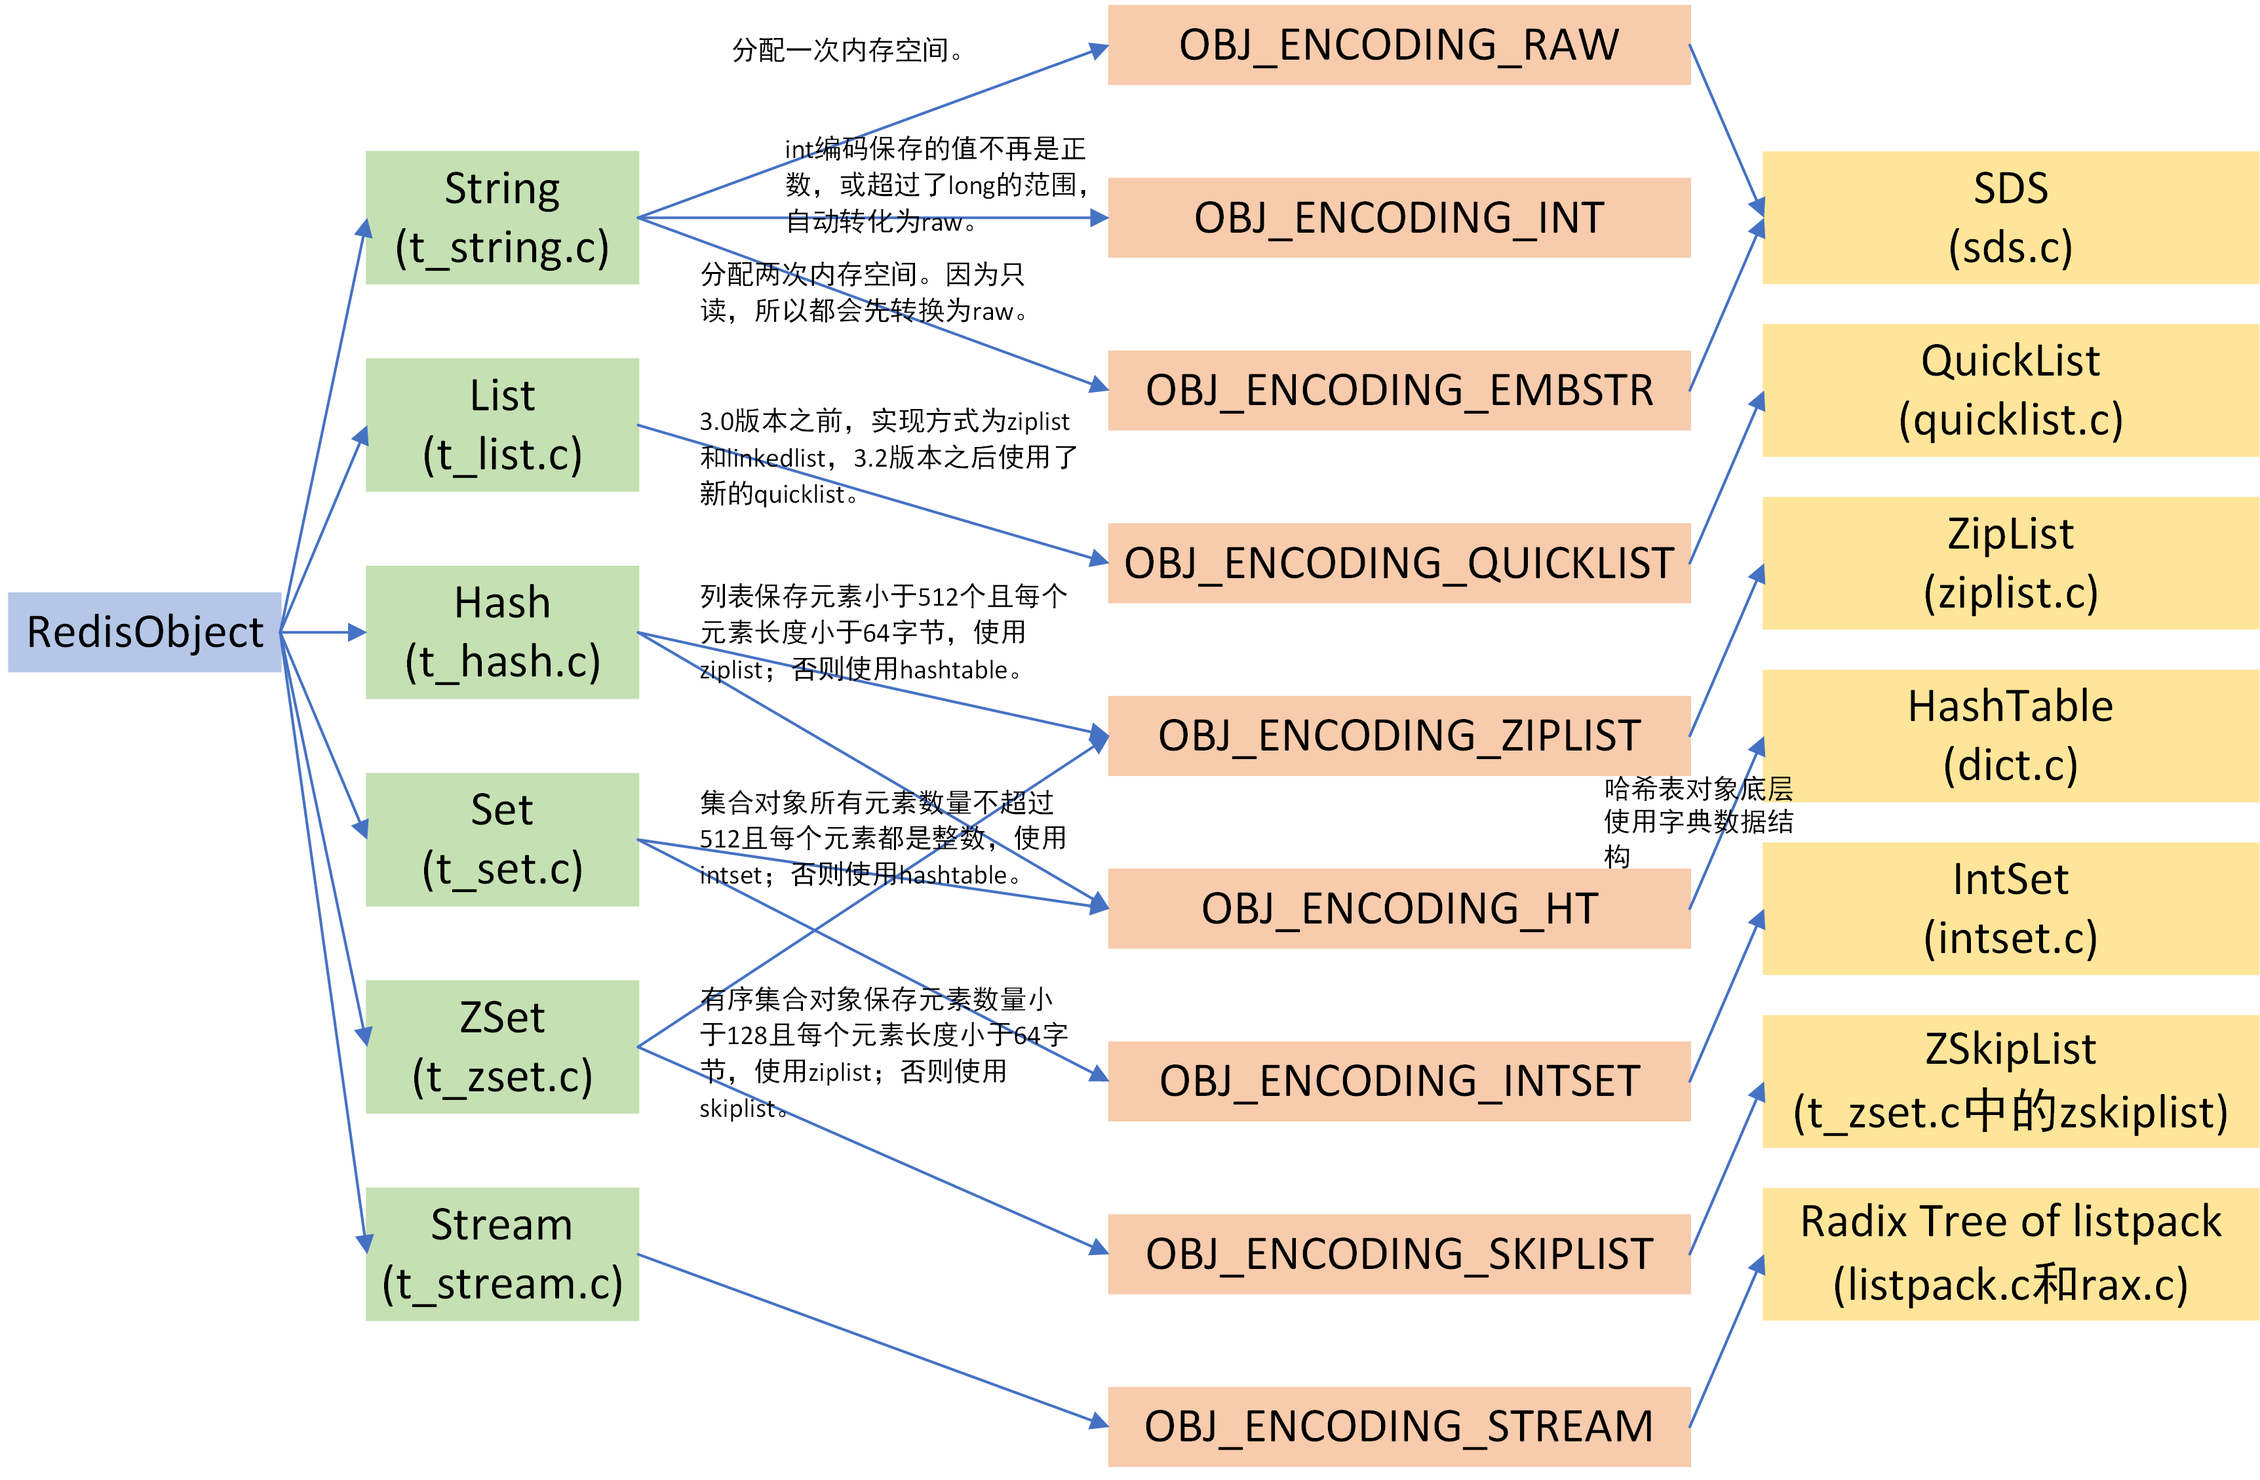
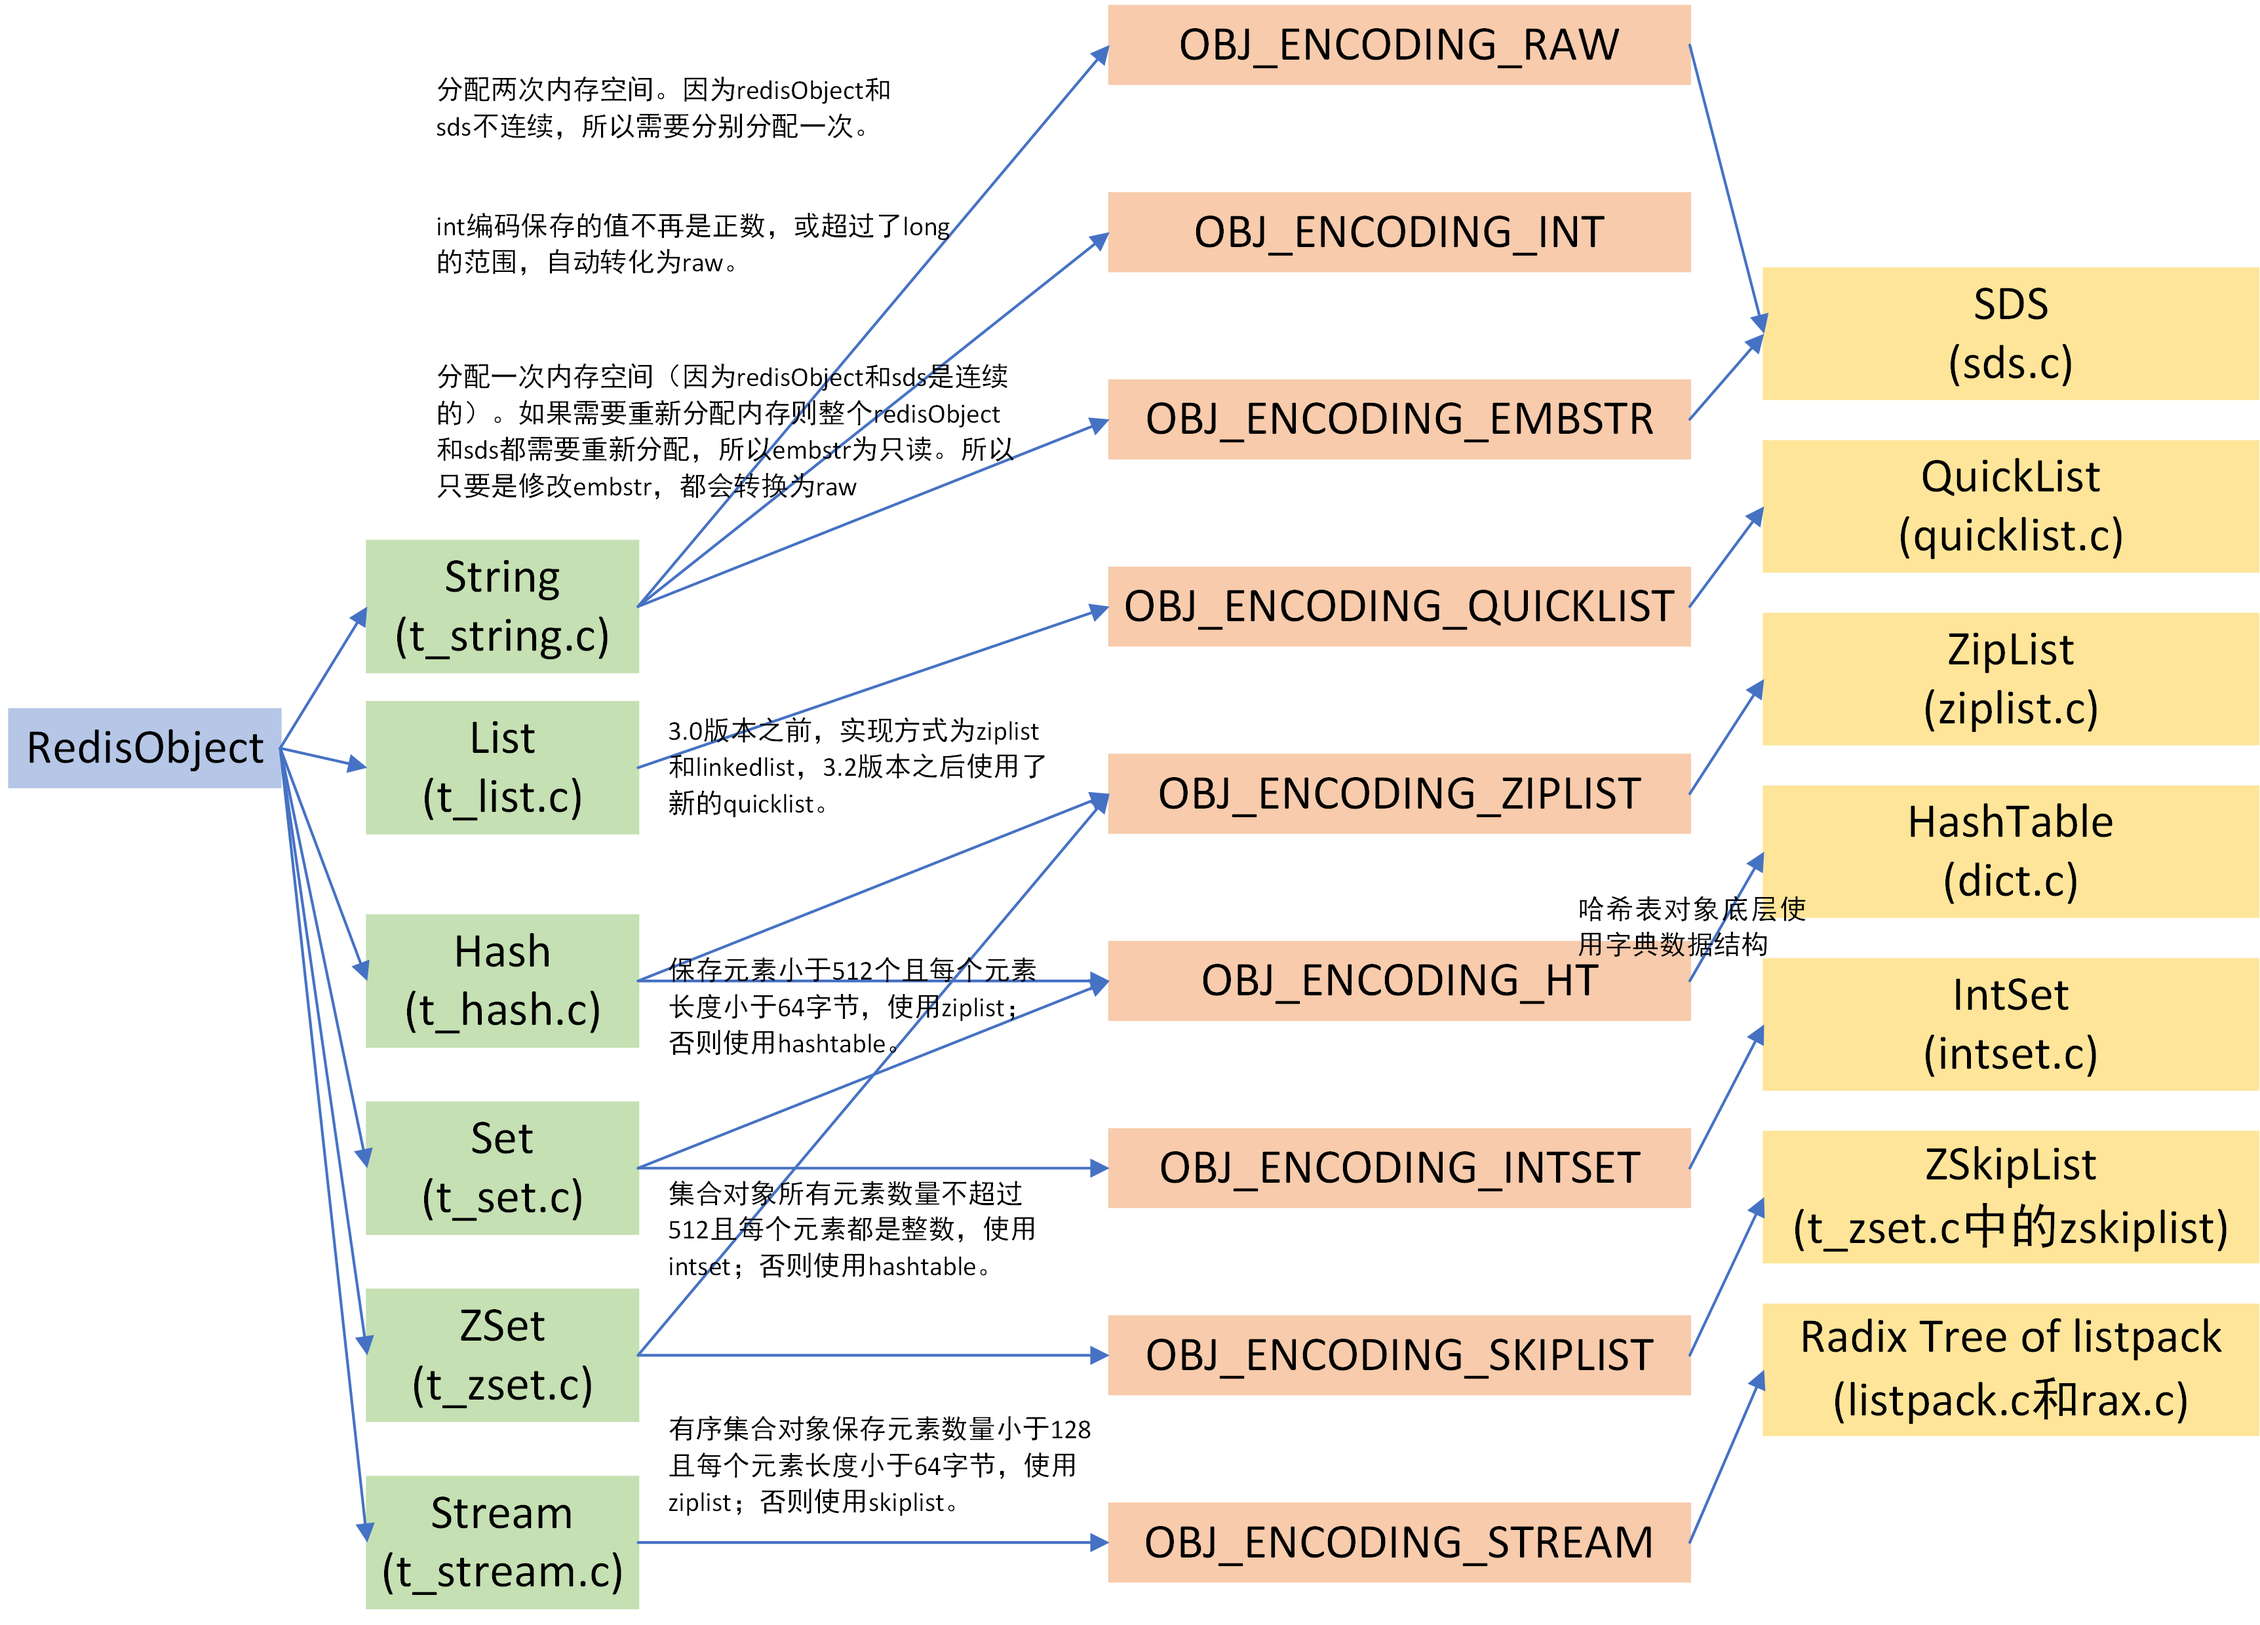
2022-06-27 lab

Changed region(s): [[0.0, 0.031, 1.0, 0.992], [0.4655, 0.0, 0.7448, 0.062], [0.4965, 0.124, 0.7448, 0.186]]

diff --git a/Redis.md b/Redis.md
@@ -1759,6 +1759,10 @@ typedef struct zskiplist {
 
 ![三种编码方式的内存布局](Redis.assets/db-redis-ds-x-21.png)
 
+`raw`和`embstr`的区别：
+
+`embstr`与`raw`都使用redisObject和sds保存数据，区别在于：`embstr`的使用只分配一次内存空间（redisObject和sds是连续的），而`raw`需要分配两次内存空间（分别为redisObject和sds分配空间）。因此与`raw`相比，`embstr`的好处在于创建时少分配一次空间，删除时少释放一次空间，以及对象的所有数据连在一起，寻找方便。而`embstr`的坏处也很明显，如果字符串的长度增加需要重新分配内存时，整个redisObject和sds都需要重新分配空间，因此Redis中的`embstr`实现为**只读**。
+
 ##### 编码转换
 
 > 参考链接：[知乎](https://zhuanlan.zhihu.com/p/340939326)
